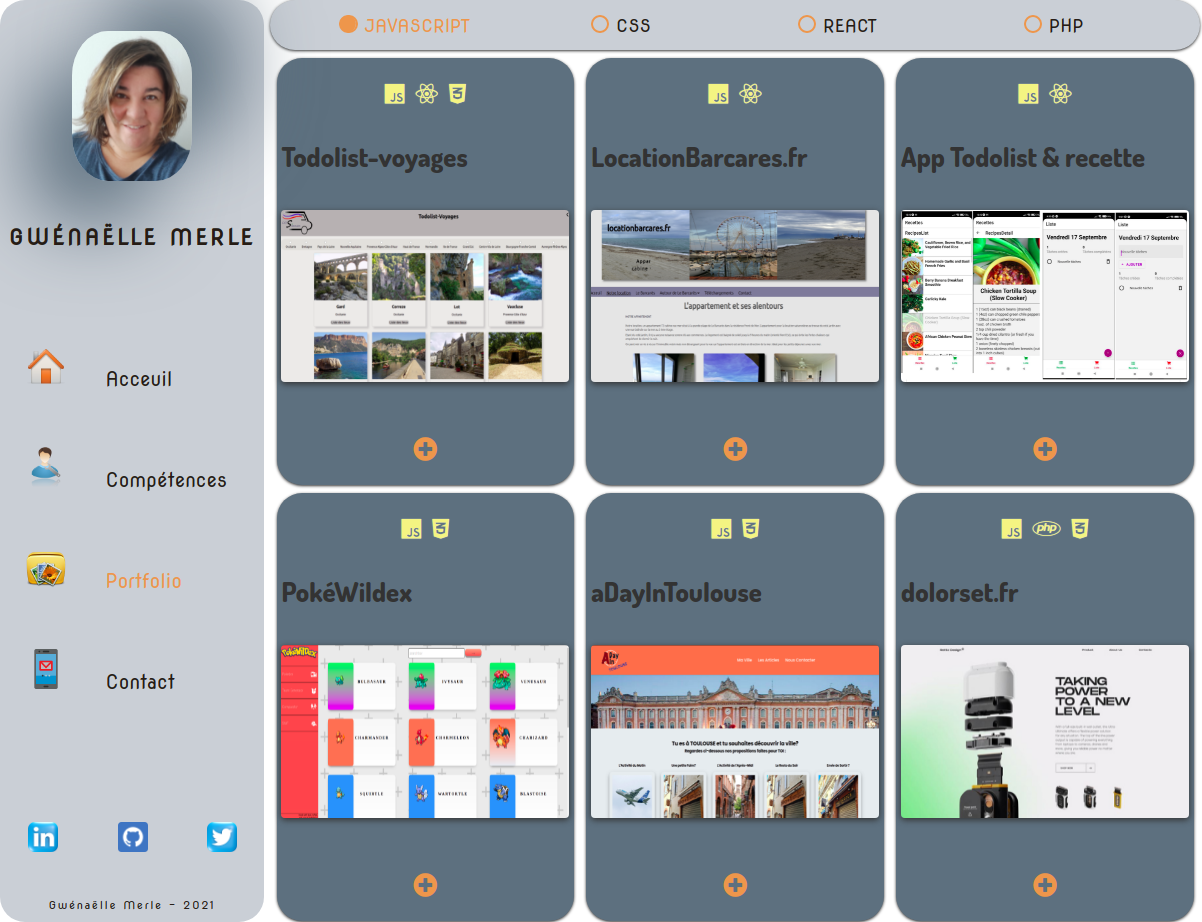
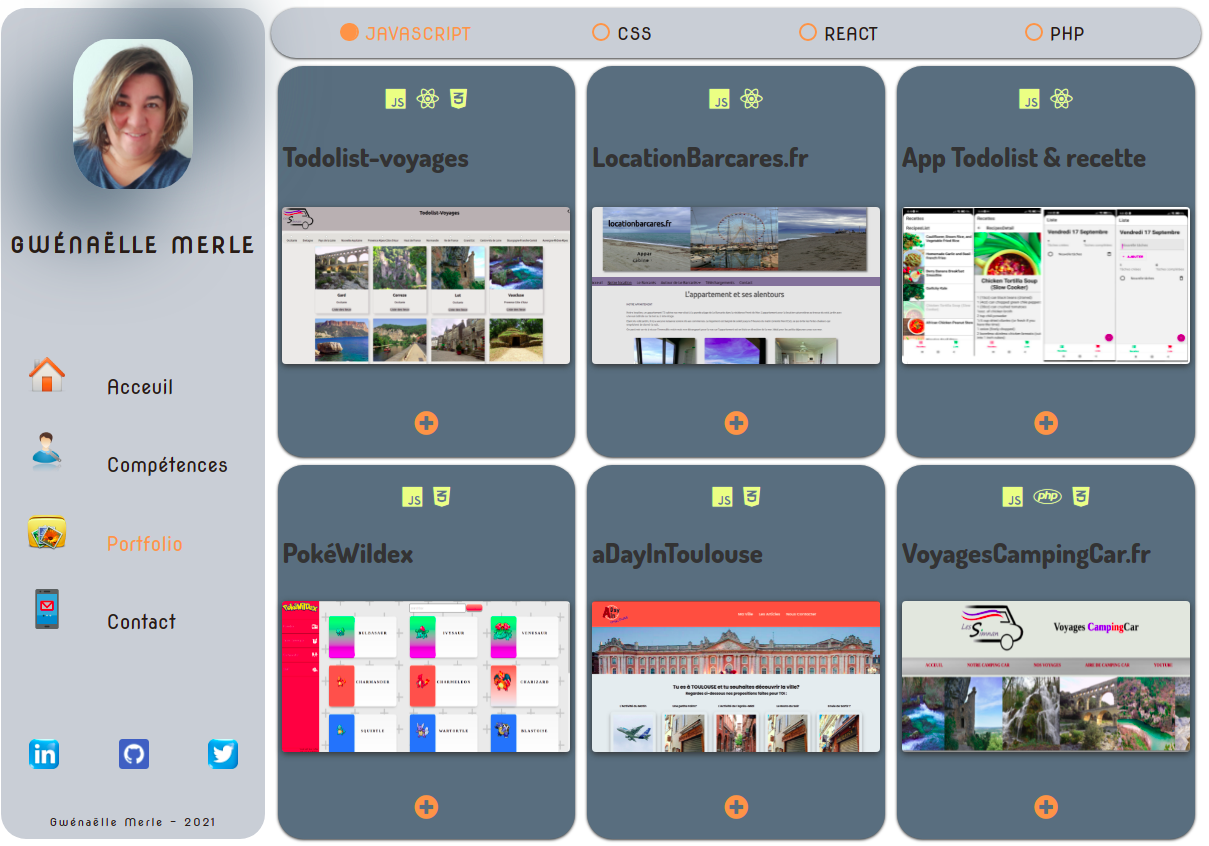
modif readme

diff --git a/src/data/portfolioData.js b/src/data/portfolioData.js
@@ -49,10 +49,10 @@ export const portfolioData = [
     },
     {
       id: 6,
-      name: 'VoyageCampingCar',
+      name: 'VoyagesCampingCar.fr',
       languages: ['javascript','php','css'],
       languagesIcons: ['fab fa-js','fab fa-php','fab fa-css3-alt'],
-      source: 'http://www.github.com',
+      source: 'https://github.com/gwen31/',
       info: "C'est un site qui présente nos voyages, nos visites de la France en camping-car. Trier par département, on peut y découvrir les photos prise paar moi même et quelque explication sur le lieux.",
       picture: './media/project3.png'
     },
